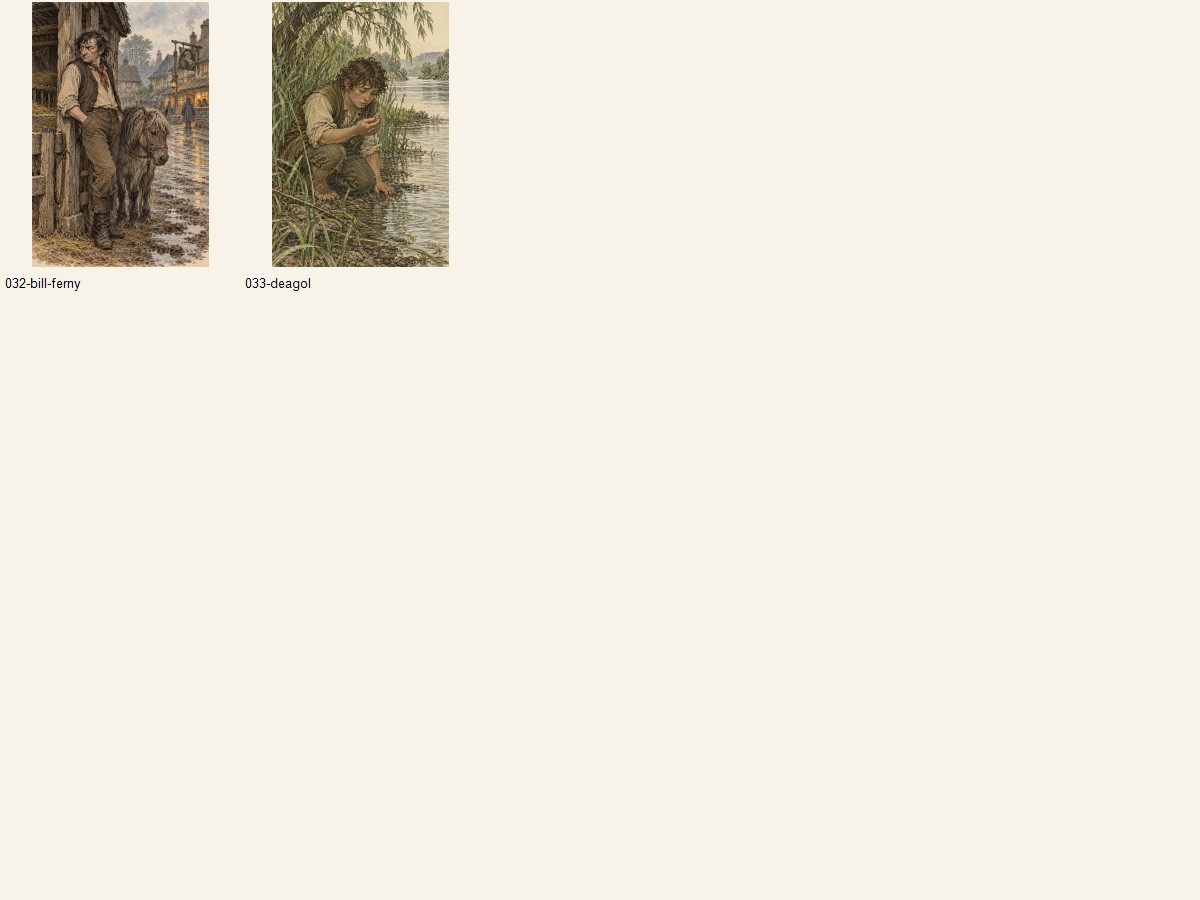
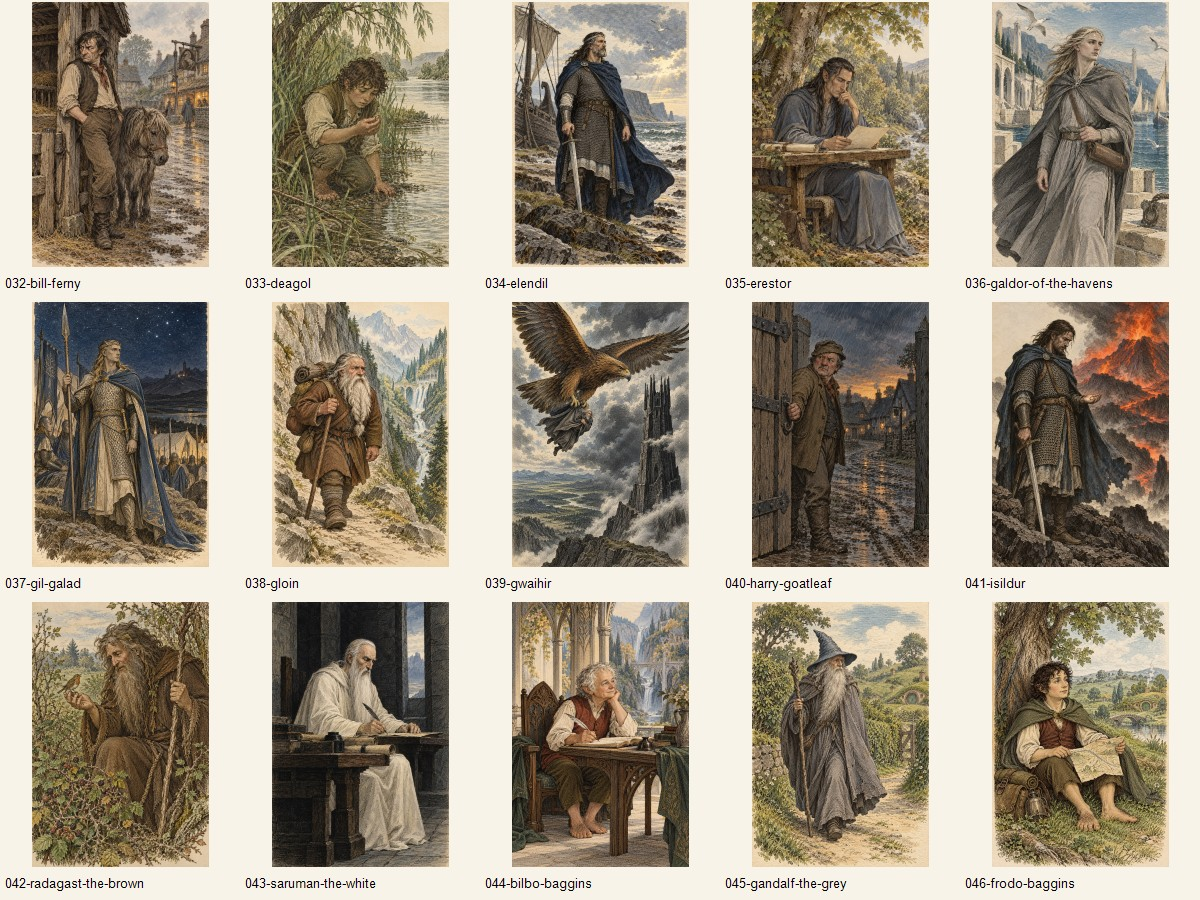
Add book-based LOTR character and item plates

diff --git a/scripts/lotr-two-books-art/PROGRESS.md b/scripts/lotr-two-books-art/PROGRESS.md
@@ -11,14 +11,14 @@ Work on both books together. Reuse art for the same subject across books, but ne
 ## Inventory and progress
 
 - `manifest.json` lists 217 distinct original illustrations for 389 cover, character, item and location slots: 173 Fellowship and 216 Two Towers. Exactly 172 illustrations are shared across books. Book-specific extras are one Fellowship cover and 44 Two Towers subjects.
-- 34 final images are accepted, registered, and converted to JPEG: assets 001-033 and 174. The PNG masters are ignored by Git. 183 assets remain pending.
+- 49 final images are accepted, registered, and converted to JPEG: assets 001-048 and 174. The PNG masters are ignored by Git. 168 assets remain pending.
 - `make-contact-sheets.ps1` produces category sheets for visual review; the first cover and character sheets were generated and inspected.
 - The accepted Fellowship cover depicts Tom Bombadil guiding the four hobbits from the Old Forest, a book scene omitted by the films. The accepted Two Towers cover depicts Faramir speaking to Frodo and Sam in Henneth Annûn. Accepted shared art includes a distinctly non-film Aragorn, Arwen, a shadow-and-flame Balrog without film horns or wings, and Barliman Butterbur.
-- An earlier Fellowship cover with a nine-person lineup, an earlier Aragorn that resembled the film actor, a multi-pose Boromir, a blond film-like Legolas, and an eye-shaped Sauron were rejected and are not part of the registered assets.
+- An earlier Fellowship cover with a nine-person lineup, an earlier Aragorn that resembled the film actor, a multi-pose Boromir, a blond film-like Legolas, an eye-shaped Sauron, and initial Erestor, Glóin, and Saruman variants with film-like Council or character imagery were rejected and are not part of the registered assets.
 - The `.pwk` files contain 69 and 104 linked image blobs. The companion `.pwb` bundles contain 80 and 66 embedded blobs, including 14 map blobs in each. Many apparent missing references resolve through `.pwb`. The artwork task will replace all linked and embedded non-map art; preserve the functional map bundles. Two map layers in each book reuse a map image for navigation overlays; the no-repeat rule is enforced on cover, character, item and location illustrations.
 - A trial set of schematic SVG maps was discarded after discovering the embedded maps. No map replacements are pending.
 - `import-art.mjs` is prepared but intentionally refuses to run until all 217 approved JPEGs exist. It will import unique image refs per book, keep the map-only PWB, archive old blob metadata, update the catalogue, and correct Fellowship's `Endoras` typo to `Edoras`.
-- `validate.mjs` checks the checkpoint now and will check final art URL/hash uniqueness, map resolution, source removal, and catalogue sizes after import. Current checkpoint validation passes at 34/217.
+- `validate.mjs` checks the checkpoint now and will check final art URL/hash uniqueness, map resolution, source removal, and catalogue sizes after import. Current checkpoint validation passes at 49/217.
 
 ## Next actions
 
